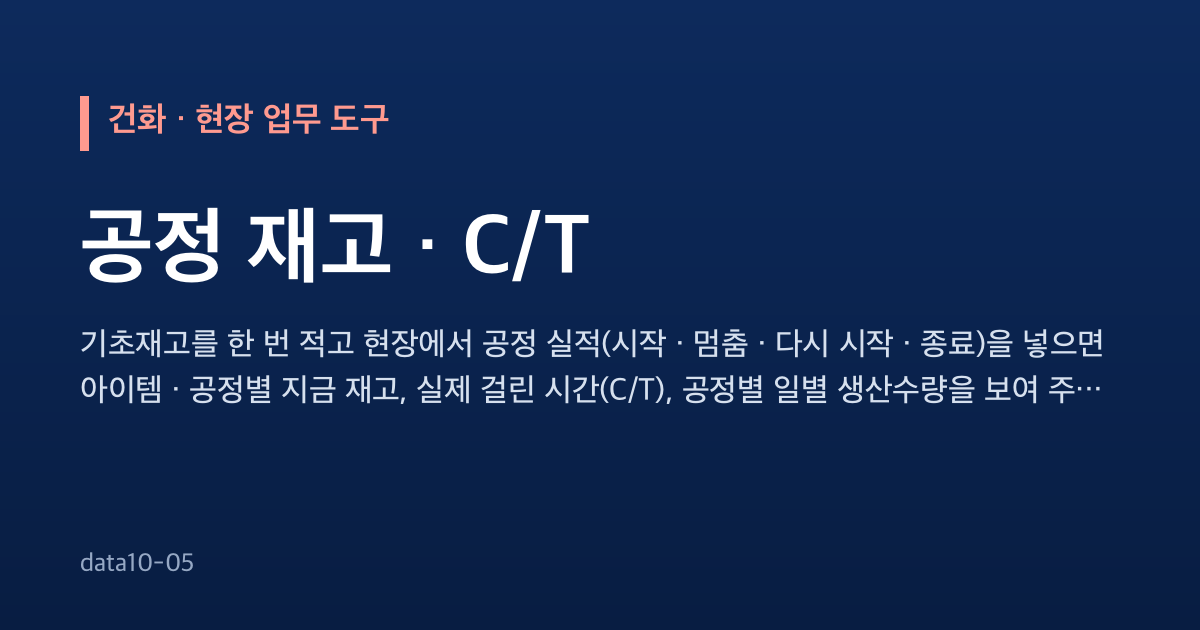
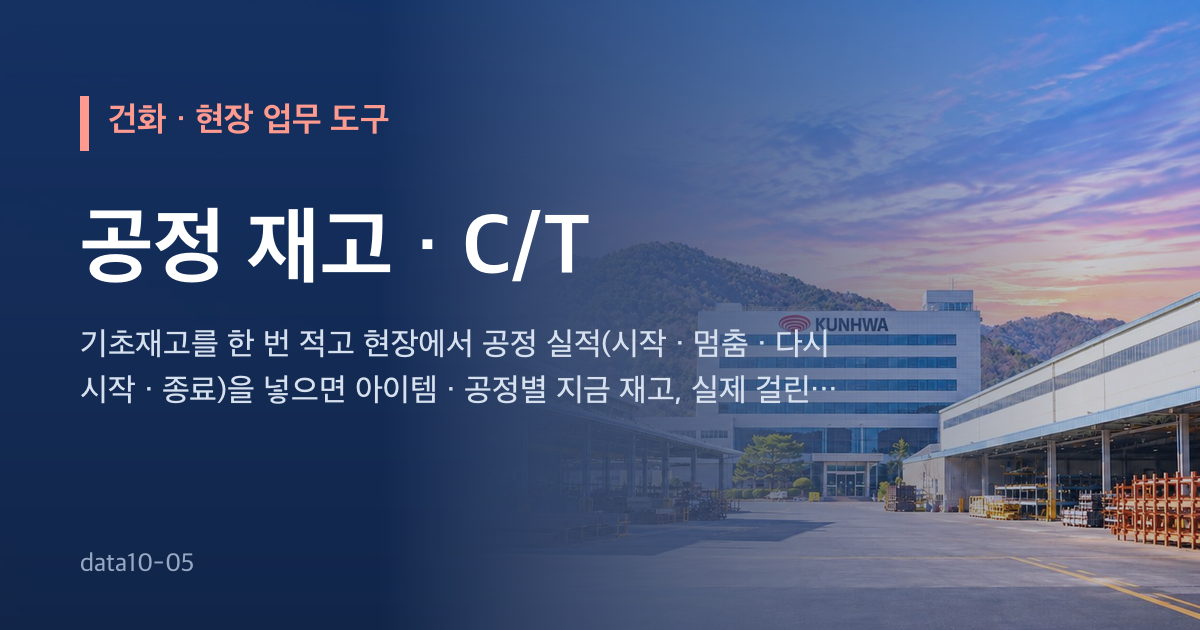
개발 자료 전체 공개 — 개발일지 · 기획서 원문 · 시험 · SQL · 스크립트 · README (수강생 내려받기용)

diff --git a/index.html b/index.html
@@ -12,9 +12,16 @@
   <meta property="og:description" content="기초재고를 한 번 적고 현장에서 공정 실적(시작 · 멈춤 · 다시 시작 · 종료)을 넣으면 아이템 · 공정별 지금 재고, 실제 걸린 시간(C/T), 공정별 일별 생산수량을 보여 주는 도구입니다.">
   <meta property="og:url" content="https://data10-05.jobability.co.kr/">
   <meta property="og:image" content="https://data10-05.jobability.co.kr/og-image.png">
+  <meta property="og:image:secure_url" content="https://data10-05.jobability.co.kr/og-image.png">
+  <meta property="og:image:type" content="image/png">
   <meta property="og:image:width" content="1200">
   <meta property="og:image:height" content="630">
+  <meta property="og:image:alt" content="건화 · 공정 재고 · C/T">
+  <meta property="og:locale" content="ko_KR">
   <meta name="twitter:card" content="summary_large_image">
+  <meta name="twitter:title" content="건화 · 공정 재고 · C/T">
+  <meta name="twitter:description" content="기초재고를 한 번 적고 현장에서 공정 실적(시작 · 멈춤 · 다시 시작 · 종료)을 넣으면 아이템 · 공정별 지금 재고, 실제 걸린 시간(C/T), 공정별 일별 생산수량을 보여 주는 도구입니다.">
+  <meta name="twitter:image" content="https://data10-05.jobability.co.kr/og-image.png">
   <link rel="icon" href="favicon.svg" type="image/svg+xml">
   <!-- /seo-kit -->
   <meta name="description" content="기초재고와 공정 실적(시작·멈춤·종료 단추)으로 아이템·공정별 현재 재고와 실제 걸린 시간(C/T), 공정별 일별 생산수량을 보여 주는 브라우저 도구">
@@ -29,11 +36,11 @@
        v3: location.reload() 대신 질의 붙은 주소로 — reload 가 Fastly 에 남은 옛 판을 다시 받아 멈추던 것(10-21 build-data 강의안).
        탭 전환·포커스로는 옮기지 않는다(입력 유실). ETag 는 Cloudflare 가 지워서 쓸 수 없다. 원본: dreamit-1000/scripts/fresh-guard/guard.html -->
   <script>(function(){try{var L=location,P='_fg',h=window.history,q=L.search;if(L.protocol==='file:')return;if(/[?&]_fg=/.test(q)&&h&&h.replaceState){q=q.replace(/([?&])_fg=[^&]*&?/,'$1').replace(/[?&]$/,'');h.replaceState(h.state,'',L.pathname+q+L.hash);}var d=Date.parse(document.lastModified),u=L.pathname+L.search,k='__fresh_guard',t=0;if(!d||!window.fetch||!window.sessionStorage)return;var g=function(s,v){return s+(s.indexOf('?')<0?'?':'&')+P+'='+v;};var c=function(){var n=Date.now();if(n-t<15000)return;t=n;fetch(g(u,n),{method:'HEAD',cache:'no-store'}).then(function(r){var lm=r.headers.get('last-modified'),f=lm&&Date.parse(lm);if(!f||f<=d+1000)return;if(sessionStorage.getItem(k)===lm)return;sessionStorage.setItem(k,lm);L.replace(g(L.pathname+L.search,f)+L.hash);})['catch'](function(){});};c();var p=h&&h.pushState;if(p)h.pushState=function(){var x=p.apply(this,arguments);c();return x;};addEventListener('hashchange',c);addEventListener('popstate',c);}catch(e){}})();</script>
-  <link rel="stylesheet" href="css/style.css?v=2026-11-11.7">
+  <link rel="stylesheet" href="css/style.css?v=2026-11-11.8">
   <!-- auth-kit: 로그인 전에는 도구 화면을 감춘다(js/auth.js 가 판정 뒤 푼다) -->
   <script>document.documentElement.classList.add('auth-lock')</script>
-  <link rel="stylesheet" href="css/auth.css?v=2026-11-11.7">
-  <link rel="stylesheet" href="css/board.css?v=2026-11-11.7">
+  <link rel="stylesheet" href="css/auth.css?v=2026-11-11.8">
+  <link rel="stylesheet" href="css/board.css?v=2026-11-11.8">
   <!-- /auth-kit -->
 </head>
 <body>
@@ -66,19 +73,19 @@
   <div id="toast" class="toast" role="status" aria-live="polite" hidden></div>
 
   <!-- 로컬 파일(file://)로 열어도 돌도록 module 이 아닌 일반 스크립트로 불러옵니다 -->
-  <script src="vendor/xlsx.full.min.js?v=2026-11-11.7"></script>
-  <script src="js/logic.js?v=2026-11-11.7"></script>
-  <script src="js/sample-data.js?v=2026-11-11.7"></script>
-  <script src="js/store.js?v=2026-11-11.7"></script>
-  <script src="js/charts.js?v=2026-11-11.7"></script>
-  <script src="js/ai-endpoint.js?v=2026-11-11.7"></script>
-  <script src="js/ai-panel.js?v=2026-11-11.7"></script>
-  <script src="js/app.js?v=2026-11-11.7"></script>
+  <script src="vendor/xlsx.full.min.js?v=2026-11-11.8"></script>
+  <script src="js/logic.js?v=2026-11-11.8"></script>
+  <script src="js/sample-data.js?v=2026-11-11.8"></script>
+  <script src="js/store.js?v=2026-11-11.8"></script>
+  <script src="js/charts.js?v=2026-11-11.8"></script>
+  <script src="js/ai-endpoint.js?v=2026-11-11.8"></script>
+  <script src="js/ai-panel.js?v=2026-11-11.8"></script>
+  <script src="js/app.js?v=2026-11-11.8"></script>
   <!-- auth-kit: 로그인 · 사용 신청 · 승인(정본 data10-00/kit/auth) -->
-  <script src="vendor/supabase.js?v=2026-11-11.7"></script>
-  <script src="js/auth-config.js?v=2026-11-11.7"></script>
-  <script src="js/board.js?v=2026-11-11.7"></script>
-  <script src="js/auth.js?v=2026-11-11.7"></script>
+  <script src="vendor/supabase.js?v=2026-11-11.8"></script>
+  <script src="js/auth-config.js?v=2026-11-11.8"></script>
+  <script src="js/board.js?v=2026-11-11.8"></script>
+  <script src="js/auth.js?v=2026-11-11.8"></script>
   <!-- /auth-kit -->
 </body>
 </html>

diff --git a/js/auth.js b/js/auth.js
@@ -233,6 +233,12 @@
       box.classList.toggle('hp-sl-light', !!(sl[i] && sl[i].tone === 'light'));   // 밝은 사진이면 글자를 어둡게
     }
     go(0);
+    // slides[].anim(움직이는 그림 gif) — 먼저 가벼운 사진을 보이고, 화면이 뜬 뒤 받아서 바꿔 끼운다(데이터 절약 · 모션 최소화면 건너뜀)
+    var conn = navigator.connection || {};
+    if (!reduce && !conn.saveData) sl.forEach(function (x, k) {
+      if (!x.anim || !track.children[k]) return;
+      setTimeout(function () { var im = new Image(); im.onload = function () { if (document.body.contains(track)) track.children[k].style.backgroundImage = 'url("' + absUrl(x.anim) + '")'; }; im.src = absUrl(x.anim); }, 1500);
+    });
     box.querySelectorAll('[data-sl]').forEach(function (b) {
       b.onclick = function () {
         var v = b.getAttribute('data-sl');

diff --git a/js/app.js b/js/app.js
@@ -6,7 +6,7 @@
   var L = window.PPLogic, S = window.PPStore, C = window.PPCharts, AIP = window.AIPanel;
   /* 판 맞추기 — 브라우저가 옛 logic.js 와 새 app.js 를 섞어 쓰면(Pages 캐시) 계산하지 않고 새로고침을 안내합니다.
      판은 scripts/bump-version.mjs 로 index.html(?v=) · logic.js 와 함께 올립니다. */
-  var APP_VERSION = '2026-11-11.7';
+  var APP_VERSION = '2026-11-11.8';
   if (!L || L.VERSION !== APP_VERSION) {
     var m0 = document.getElementById('main') || document.body;
     m0.innerHTML = '<section class="card" id="versionMismatch"><h1>새 판이 나왔습니다 — 새로고침(Ctrl+F5)해 주세요</h1><p class="alert warn">이 브라우저가 옛 파일과 새 파일을 섞어 불러왔습니다(js/logic.js ' +

diff --git a/js/logic.js b/js/logic.js
@@ -15,7 +15,7 @@
 })(typeof self !== 'undefined' ? self : this, function () {
   'use strict';
   /* 판(版) — index.html 의 ?v= · app.js 의 APP_VERSION 과 같아야 합니다(scripts/bump-version.mjs 로 함께 올림). */
-  var VERSION = '2026-11-11.7';
+  var VERSION = '2026-11-11.8';
 
   /* 저장 형식 판. 1 = 1·2차(발주서·재고 체크·과부족), 2 = 3차(아이템·기초재고·공정 실적·타이머) */
   var SCHEMA_VERSION = 2;

diff --git a/docs/평가보고서/data10-05_평가보고서_2026-11-11.md b/docs/평가보고서/data10-05_평가보고서_2026-11-11.md
@@ -2,7 +2,7 @@
 
 - 과제: 공정 재고 · C/T
 - 요청자: 박주헌
-- 점검일: 2026-11-11 (라이브 점검 판 2026-11-11.6, 이 보고서와 함께 올리는 판 2026-11-11.7)
+- 점검일: 2026-11-11 (라이브 점검 판 2026-11-11.6, 이 보고서와 함께 올리는 판 2026-11-11.8)
 - 사이트: https://data10-05.jobability.co.kr/
 - 리포지토리: https://github.com/jungaistar/data10-05
 
@@ -34,7 +34,7 @@
 | 첫 화면 구성 | 충족 | 모양 사진 슬라이드 3장 · 기능 6 · 사용 순서 6 · 실제 화면 있음 |
 | 회사 로고(그림) | 충족 | 머리글 로고 그림 |
 | 기획서 페이지 · 실제 화면 그림 | 충족 | plan.html 200 · screen.png 200 |
-| 공유 미리보기 메타 · 아이콘 | 조치함 | 점검 때 og 메타 · 아이콘이 없어 판 2026-11-11.7 에서 넣음 |
+| 공유 미리보기 메타 · 아이콘 | 조치함 | 점검 때 og 메타 · 아이콘이 없어 넣음 — og:title · description · url · image(1200×630, 첫 화면 사진 바탕) · canonical |
 
 ## 3. 기능과 시험
 
@@ -64,7 +64,7 @@
 | Supabase 설정 파일 | 충족 | auth.sql · board.sql · site.sql · verify.sql |
 | Supabase 연결 안내 | 충족 | supabase/README.md (11단계 · 기대하는 값 · 자주 나는 문제) |
 | 내 깃허브로 옮기기 안내 | 충족 | docs/내_깃허브로_옮기기.md |
-| 기획서(워드) · 개발일지 · 변경 이력 | 충족 | 변경 이력 10건 · 커밋 17개 |
+| 기획서(워드) · 개발일지 · 변경 이력 | 충족 | 변경 이력 11건 · 커밋 18개 |
 | 공개 리포지토리(ZIP 내려받기) | 충족 | github.com/jungaistar/data10-05 |
 | 게시판 · 새 글 알림 · 첫 화면 고르기 | 충족 | 과정용 프로젝트에 SQL 적용 완료(표 · 정책 수 확인) |
 
@@ -75,13 +75,14 @@
 | 항목 | 결과 | 근거 |
 |---|---|---|
 | 내 깃허브에 배포 | 충족 | https://pjh3862.github.io/2026.11.11_2/ |
-| 최신 판으로 배포 | 미충족 | 배포된 판 2026-11-11.2 (최종 2026-11-11.7) |
+| 최신 판으로 배포 | 미충족 | 배포된 판 2026-11-11.2 (최종 2026-11-11.8) |
 | 게시판 포함 판 | 충족 | 게시판 파일 있음 |
 | 내 Supabase 로 연결 | 미충족 | 아직 과정용 프로젝트 주소 그대로 |
 | 비밀 키 노출 없음 | 충족 | 설정 파일에 service_role · secret 키 없음 |
 
 ## 6. 변경 이력
 
+- 2026-11-11 점검 · 평가보고서 (판 2026-11-11.7)
 - 2026-11-11 요청 반영 (판 2026-11-11.6)
 - 2026-11-11 슬라이드 사진 (판 2026-11-11.5)
 - 2026-11-11 첫 화면 모양 고르기 (판 2026-11-11.3)

diff --git a/CHANGELOG.md b/CHANGELOG.md
@@ -2,6 +2,11 @@
 
 버전마다 기획서 워드 판을 `docs/기획서/` 에 남긴다(옛 판을 지우지 않는다).
 
+## 2026-11-11 최종 (판 2026-11-11.8)
+
+- 공유 미리보기 그림(og-image.png)을 첫 화면 사진 바탕으로, og · twitter 메타 보강
+- 평가보고서 갱신 `docs/평가보고서/`
+
 ## 2026-11-11 점검 · 평가보고서 (판 2026-11-11.7)
 
 - 16개 사이트 점검 결과와 평가보고서 `docs/평가보고서/`(md · docx)
